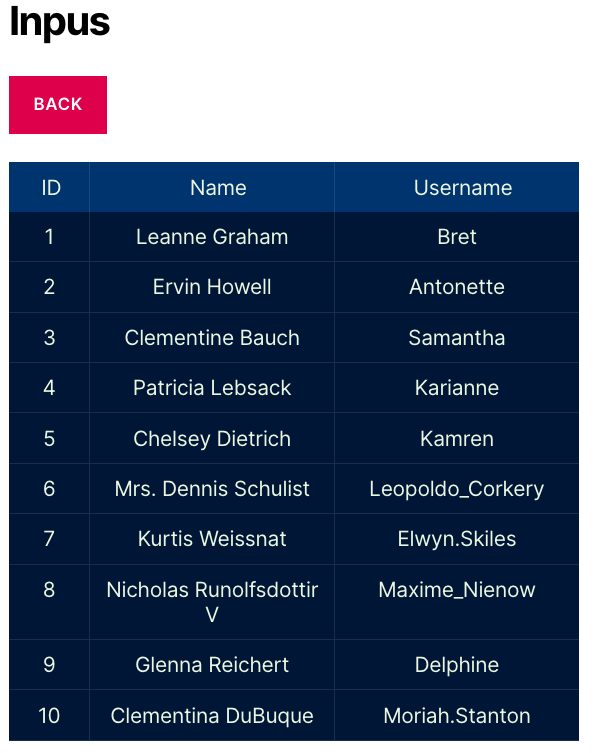
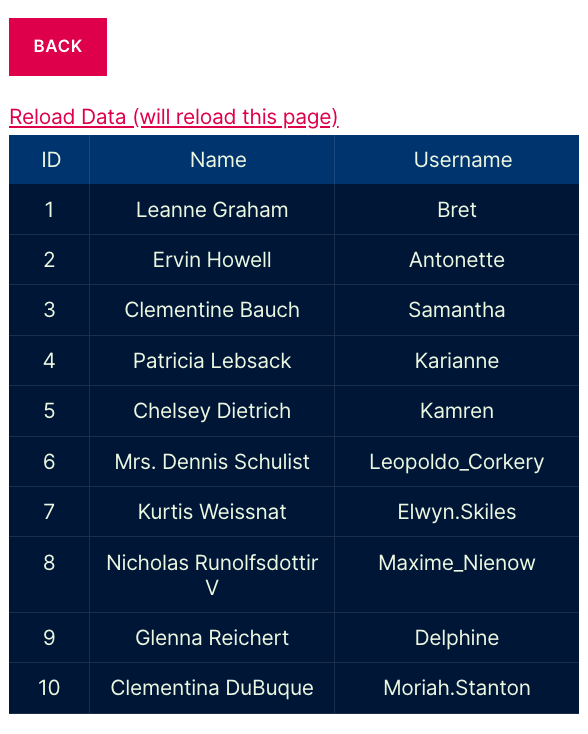
added reload functionality

Changed region(s): [[0.0, 0.0, 1.0, 0.9891], [0.0612, 0.8392, 0.0918, 0.8992], [0.0612, 0.7493, 0.0918, 0.8093]]

diff --git a/js/main.js b/js/main.js
@@ -8,9 +8,11 @@
 
     1. dropdown.onclick - 
        a. As soon as the dropdown button is clicked, dropdownClicked() function is called to display table with user list.
-    2. dropdownClicked also provides a click option. Each item displayed in the table are clickable divs and they have the following click option - 
+    2. dropdownClicked also provides a click option. Each item displayed in the table are clickable divs and they have the 
+       following click option - 
        a. onclick = fetchUser() - To display the details of the clicked user.
-    3. back.onClick - Click event that calls navigateBack() to navigate to the previous screen.
+    3. back.onclick - Click event that calls navigateBack() to navigate to the previous screen.
+    4. reloadButton.onclick - deletes local storage and reloads the page.
 -------------------------------------------------------------------------------------------------------------------------------------------------------
     
     Functions
@@ -19,17 +21,26 @@
        a. Takes in three DOM parameters - dropdown, display1 and back.
        b. Checks if the id of next user is present in the local storage. If not, 1 is set as the next user_id.
        c. Request is made to the user api to fetch the user with next user id.
-       d. If the request is successful, this means a new user has been added and the user list present in the local storage has to be refreshed.
-       e. If the request responds with 404, the list from local storage can be displayed, skipping the api call to fetch all users.
-       f. Using data from api call or from the local storage, displayFirst() function is called to display fetched data.
+       d. If the request is successful, this means a new user has been added and the user list present in 
+          the local storage has to be refreshed.
+       e. If the request responds with 404, the list from local storage can be displayed, skipping the api 
+          call to fetch all users.
+       f. Caching method is used for this data because this step displays username, name of the user and user id. 
+          This data hardly changes. But if it still changes, reload option is provided
+       g. Using data from api call or from the local storage, displayFirst() function is called to display fetched data.
     2. displayFirst(data, dropdown, back, display1)
-       a. this performs basic DOM operations to hide the dropdown button, display the next button and to write the data into the widget's div tag.
+       a. this performs basic DOM operations to hide the dropdown button, display the next button and to write the data into 
+          the widget's div tag.
     3. fetchUser(i) 
        a. This function fetches individual user data from the api and calls the displaySecond() function.
     4. displaySecond() - 
        a. This function displays the data fetched in the previous function.
     5. navigateBack() - 
        a. Performs dom operation to display the previous screen.
+    6. reloadData() - 
+       a. Clears local storage.
+       b. reloads the page.
+       c. this is to reflect any change in username, User ID or name of the user.
 -------------------------------------------------------------------------------------------------------------------------------------------------------
 
 */
@@ -39,10 +50,11 @@ window.onload = function() {
     let display1 = document.getElementById('inpus-display-1');
     let display2 = document.getElementById('inpus-display-2');
     let back = document.getElementById('inpus-back');
-
+    let reloadButton = document.getElementById('inpus-reload-list');
     
     dropdown.onclick = ()=>dropdownClicked(dropdown, display1, back);
     back.onclick = ()=>navigateBack(dropdown, display1, display2, back); 
+    reloadButton.onclick = ()=>reloadData();
      
 }
 
@@ -61,7 +73,8 @@ function dropdownClicked (dropdown, display1, back) {
             let xhttp = new XMLHttpRequest();
             xhttp.onreadystatechange = function () {
                 if(this.readyState == 4 && this.status == 200) {
-                    displayFirst(JSON.parse(this.responseText), dropdown, back, display1);
+                    let data = JSON.parse(this.responseText);
+                    displayFirst(data, dropdown, back, display1);
                     sessionStorage.setItem('InpusLastID', String(data.length + 1));
                     data = JSON.stringify(data);
                     sessionStorage.setItem('InpusUserList', data);
@@ -80,6 +93,9 @@ function dropdownClicked (dropdown, display1, back) {
 
 
 function displayFirst(data, dropdown, back, display1) {
+    let reloadButton = document.getElementById('inpus-reload-list');
+
+    reloadButton.style.display = "block";
     display1.style.display = "grid";
     display1.style.gridTemplateColumns = "1fr 3fr 3fr";
     display1.innerHTML = "<div class='align-vertical-center inpus-head inpus-item-first'>ID</div><div class='inpus-head inpus-item-first'>Name</div><div class='inpus-head'>Username</div>";
@@ -111,8 +127,10 @@ function fetchUser(i) {
 function displaySecond(data) {
     let display1 = document.getElementById('inpus-display-1');
     let display2 = document.getElementById('inpus-display-2');
+    let reloadButton = document.getElementById('inpus-reload-list');
 
     display1.style.display = "none";
+    reloadButton.style.display = "none";
     display2.style.display = "grid";
     display2.style.gridTemplateColumns = "auto auto";
 
@@ -131,12 +149,23 @@ function displaySecond(data) {
 
 
 function navigateBack (dropdown, display1, display2, back) {
+    let reloadButton = document.getElementById('inpus-reload-list');
+
     if (display1.style.display === "grid") {
         display1.style.display = "none";
+        reloadButton.style.display = "none";
         back.style.display = "none";
         dropdown.style.display = "block";
     } else if (display2.style.display === "grid") {
         display2.style.display = "none";
         display1.style.display = "grid";
+        reloadButton.style.display = "block";
     }
+}
+
+
+function reloadData() {
+    sessionStorage.removeItem('InpusLastID');
+    sessionStorage.removeItem('InpusUserList');
+    location.reload();
 }

diff --git a/css/style.css b/css/style.css
@@ -1,4 +1,4 @@
-#inpus-back, #inpus-display-1, #inpus-display-2 {
+#inpus-back, #inpus-display-1, #inpus-display-2, #inpus-reload-list {
     display: none;
     width: auto;
 }
@@ -50,4 +50,9 @@
 
 .align-vertical-center {
     padding-top: 15%;
+}
+
+#inpus-reload-list {
+    cursor: pointer;
+    margin-bottom: 1%;
 }

diff --git a/includes/InpusClass.php b/includes/InpusClass.php
@@ -33,6 +33,7 @@ class Inpus_Widget extends WP_Widget {
 		    <div class='inpus-main'>
 				<button id='inpus-dropdown'>Click here to get a list of users</button>
 				<button id='inpus-back'>Back</button>
+				<a id='inpus-reload-list'>Reload Data (will reload this page)</a>
 				<div id='inpus-display-1'></div>
 				<div id='inpus-display-2'></div>
 			</div>

diff --git a/test/TestTemplate.php b/test/TestTemplate.php
@@ -1,4 +1,8 @@
 <?php
+/*
+    A test class initiated as prescribed in the Monkey Brain documentation, that will add all wordpress functionality without actually loading wordpress.
+*/
+
 namespace test;
 use PHPUnit\Framework\TestCase;
 use Mockery\Adapter\Phpunit\MockeryPHPUnitIntegration;

diff --git a/test/test-inpusplugin.php b/test/test-inpusplugin.php
@@ -1,4 +1,7 @@
 <?php
+/*
+    This file contains the two test cases that checks if two hooks used to add this widget to wordpress actually functions properly.
+*/
 namespace test;
 require 'TestTemplate.php';
 require 'includes/InpusScript.php';

diff --git a/README.md b/README.md
@@ -1,6 +1,6 @@
 # Inpus Plugin
 ## Description
-This is a simple Wordpress plugin written to demonstrate familiarity in wordpress plugin development.
+This is a simple Wordpress plugin written to demonstrate familiarity in wordpress plugin development. Code level detailed explaination of logic is provided at js/main.js which contains the business logic.
 
 This plugin is developed using the following technologies -
 
@@ -64,7 +64,7 @@ You can click the button to get a list of user. The list of users will be listed
 
 ![user-list](docs/UserList.png)
 
-Like mentioned in the description, The items listed in the above tables are clickable. User can click the back button to move to the previous display. On clicking any of the items in the above table another table will be displayed with the details of the selected user in a format shown below - 
+Like mentioned in the description, The items listed in the above tables are clickable. User can click the back button to move to the previous display. User can also click the reload data link to reload the list data and also the page. On clicking any of the items in the above table another table will be displayed with the details of the selected user in a format shown below - 
 
 ![user-details](docs/UserDetails.png)
 
